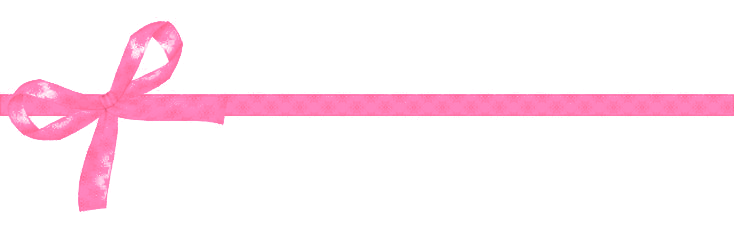
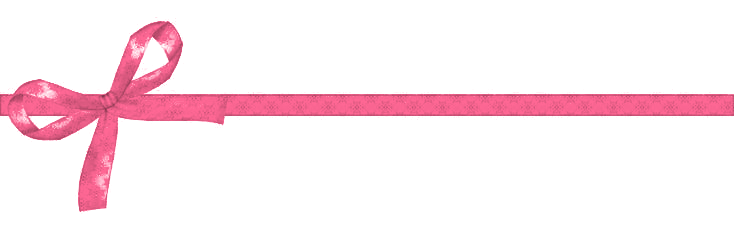
Add files via upload

Changed region(s): [[0.0, 0.0913, 1.0, 0.913]]

diff --git a/contacto.html b/contacto.html
@@ -60,10 +60,10 @@
     .top-strip{
       width:100%; height:48px;
       background-color:#f6dfe9;
-      background-image:url('ribbon-line-tile.png'), url('ribbon-bow.png');
-      background-repeat:repeat-x, no-repeat;
-      background-position:left center, left center;
-      background-size:auto 100%, auto 100%;
+      background-image:url('ribbon-bow.png');
+      background-repeat:no-repeat;
+      background-position:left center;
+      background-size:auto 100%;
     }
     @media (max-width:600px){
       .top-strip{ height:34px; }

diff --git a/index.html b/index.html
@@ -60,10 +60,10 @@
     .top-strip{
       width:100%; height:48px;
       background-color:#f6dfe9;
-      background-image:url('ribbon-line-tile.png'), url('ribbon-bow.png');
-      background-repeat:repeat-x, no-repeat;
-      background-position:left center, left center;
-      background-size:auto 100%, auto 100%;
+      background-image:url('ribbon-bow.png');
+      background-repeat:no-repeat;
+      background-position:left center;
+      background-size:auto 100%;
     }
     @media (max-width:600px){
       .top-strip{ height:34px; }

diff --git a/inicio.html b/inicio.html
@@ -60,10 +60,10 @@
     .top-strip{
       width:100%; height:48px;
       background-color:#f6dfe9;
-      background-image:url('ribbon-line-tile.png'), url('ribbon-bow.png');
-      background-repeat:repeat-x, no-repeat;
-      background-position:left center, left center;
-      background-size:auto 100%, auto 100%;
+      background-image:url('ribbon-bow.png');
+      background-repeat:no-repeat;
+      background-position:left center;
+      background-size:auto 100%;
     }
     @media (max-width:600px){
       .top-strip{ height:34px; }

diff --git a/metodos-pago.html b/metodos-pago.html
@@ -42,10 +42,10 @@
     .top-strip{
       width:100%; height:48px;
       background-color:#f6dfe9;
-      background-image:url('ribbon-line-tile.png'), url('ribbon-bow.png');
-      background-repeat:repeat-x, no-repeat;
-      background-position:left center, left center;
-      background-size:auto 100%, auto 100%;
+      background-image:url('ribbon-bow.png');
+      background-repeat:no-repeat;
+      background-position:left center;
+      background-size:auto 100%;
     }
     @media (max-width:600px){
       .top-strip{ height:34px; }

diff --git a/nosotros.html b/nosotros.html
@@ -60,10 +60,10 @@
     .top-strip{
       width:100%; height:48px;
       background-color:#f6dfe9;
-      background-image:url('ribbon-line-tile.png'), url('ribbon-bow.png');
-      background-repeat:repeat-x, no-repeat;
-      background-position:left center, left center;
-      background-size:auto 100%, auto 100%;
+      background-image:url('ribbon-bow.png');
+      background-repeat:no-repeat;
+      background-position:left center;
+      background-size:auto 100%;
     }
     @media (max-width:600px){
       .top-strip{ height:34px; }

diff --git a/productos.html b/productos.html
@@ -60,10 +60,10 @@
     .top-strip{
       width:100%; height:48px;
       background-color:#f6dfe9;
-      background-image:url('ribbon-line-tile.png'), url('ribbon-bow.png');
-      background-repeat:repeat-x, no-repeat;
-      background-position:left center, left center;
-      background-size:auto 100%, auto 100%;
+      background-image:url('ribbon-bow.png');
+      background-repeat:no-repeat;
+      background-position:left center;
+      background-size:auto 100%;
     }
     @media (max-width:600px){
       .top-strip{ height:34px; }
